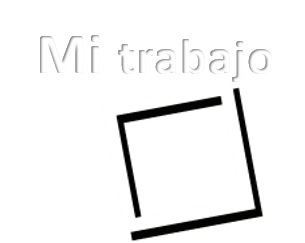
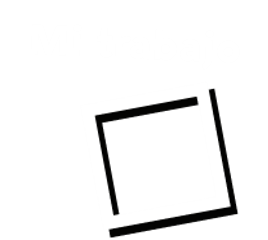
BotonesPaginasInternas

diff --git a/css/estilos.css b/css/estilos.css
@@ -11,12 +11,27 @@ background-image: url('../images/FondoPaginaInternaMiTrabajo.png');
     padding: 10px; margin: 10px;float: left; width: 450px; 
 }
 
-.textoMiTrabajo
-{
-    padding-left: 50px; float: left; position:relative; margin-top:200px; margin-left: auto;
-}
-
 .botonCuadroMiTrabajo
 {
     padding-left: 50px; float: left; width: 300px; position:relative; margin-top: 400px; margin-left: -300px;
+}
+
+.botonQuienSoyPaginasInternas
+{
+    padding-left: 50px; float: right; width: 150px; position:relative; margin-top: 550px; margin-right: 300px;
+}
+
+.botonAccionesProvocadorasPaginasInternas
+{
+    padding-left: 50px; float: right; width: 153px; position:relative; margin-top: 550px; margin-right: -270px;
+}
+
+.botonCuadroMiTrabajoPaginasInternas
+{
+    padding-left: 50px; float: right; width: 150px; position:relative; margin-top: 550px; margin-right: -30px;
+}
+
+.botonInicioPaginasInternas
+{
+    padding-left: 50px; float: right; width: 164px; position:relative; margin-top: 550px; margin-right: -10px;
 }

diff --git a/miTrabajo.html b/miTrabajo.html
@@ -12,7 +12,24 @@
   </head>
   <body class="bodyPaginaInternaMiTrabajo">
     <div>
-      <img class="textoMiTrabajo" src="./images/TextoMiTrabajo.png" alt="Encabezado"/>
+      <a href="./miTrabajo.html">
+        <img class="botonQuienSoyPaginasInternas" src="./images/TrianguloPaginasinternas.png" alt="quienSoy"/>
+      </a>
+    </div>
+    <div>
+      <a href="./miTrabajo.html">
+        <img class="botonAccionesProvocadorasPaginasInternas" src="./images/ManchaPaginasinternas.png" alt="quienSoy"/>
+      </a>
+    </div>
+    <div>
+      <a href="./miTrabajo.html">
+        <img class="botonCuadroMiTrabajoPaginasInternas" src="./images/CuadroPaginasinternas.png" alt="quienSoy"/>
+      </a>
+    </div>
+    <div>
+      <a href="./index.html">
+        <img class="botonInicioPaginasInternas" src="./images/botonInicio.png" alt="quienSoy"/>
+      </a>
     </div>
   </body>
 </html>
